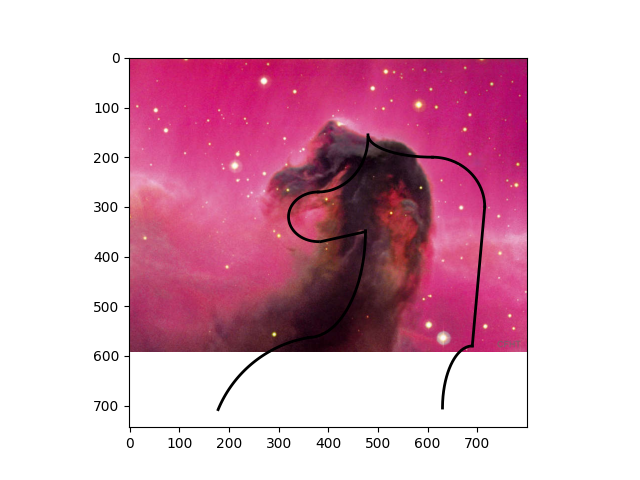
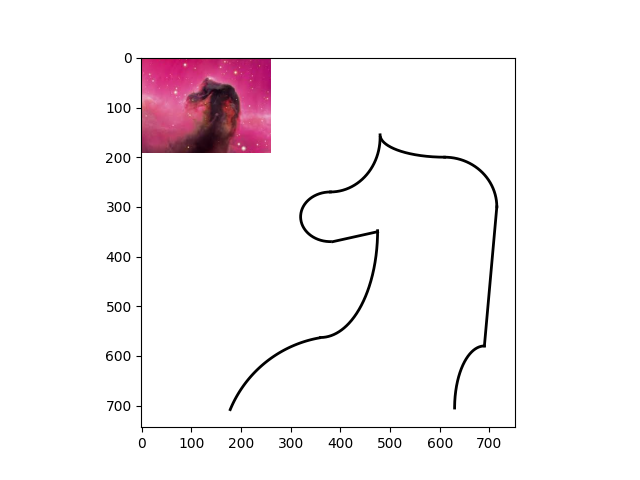
jiiji

diff --git a/lec_5_spline.py b/lec_5_spline.py
@@ -1,0 +1,31 @@
+import matplotlib.pyplot as plt
+import numpy as np
+from scipy import interpolate
+
+t0 = np.linspace(np.pi, 0, 10)
+x0 = 2 * np.cos(t0)
+y0 = 2 * np.sin(t0)
+
+x1 = np.linspace(2.01, 4, 5)
+y1 = np.zeros(len(x1))
+
+t2 = np.linspace(np.pi *2, np.pi, 10)
+x2 = 6 + 2 * np.cos(t2)
+y2 = 2 * np.sin(t2)
+
+x = np.append(x0, x1)
+y = np.append(y0, y1)
+
+x = np.append(x0, x2)
+y = np.append(y0, y2)
+
+spline_coords, figure_spline_part = interpolate.splprep([x, y], s = 0)
+spline_curve = interpolate.splev(figure_spline_part, spline_coords)
+plt.plot(spline_curve[0], spline_curve[1], 'g')
+
+plt.plot(x0, y0, 'bo')
+plt.plot(x1, y1, 'bo')
+plt.plot(x2, y2, 'bo')
+
+plt.axis('equal')
+plt.savefig("lec5.png")

diff --git a/lec-4.py b/lec-4.py
@@ -1,0 +1,21 @@
+import matplotlib.pyplot as plt
+import numpy as np
+from scipy import interpolate
+
+t = np.linspace(0, 7, 20)
+r = 2
+x = r * np.cos(t)
+y = r * np.sin(t)
+
+
+plt.plot(x, y, 'o', color='b')
+
+spline_coords, figure_spline_part = interpolate.splprep([x, y], s = 0)
+
+figure_spline_part_manual = np.arange(0, 0.5, 0.01)
+
+spline_curve = interpolate.splev(figure_spline_part_manual, spline_coords)
+plt.plot(spline_curve[0], spline_curve[1], 'g')
+
+plt.axis('equal')
+plt.savefig("lec4.png")

diff --git a/ltc_3_imagtfprocsimation.py b/ltc_3_imagtfprocsimation.py
@@ -1,0 +1,9 @@
+import matplotlib.pyplot as plt
+import numpy as np
+
+img = plt.imread('head.jpg')
+fig, ax = plt.subplots()
+ax.imshow(img,extent=[0, 1000, 0, 200])
+
+plt.ylim(0, 600)
+plt.savefig('horse.png')
